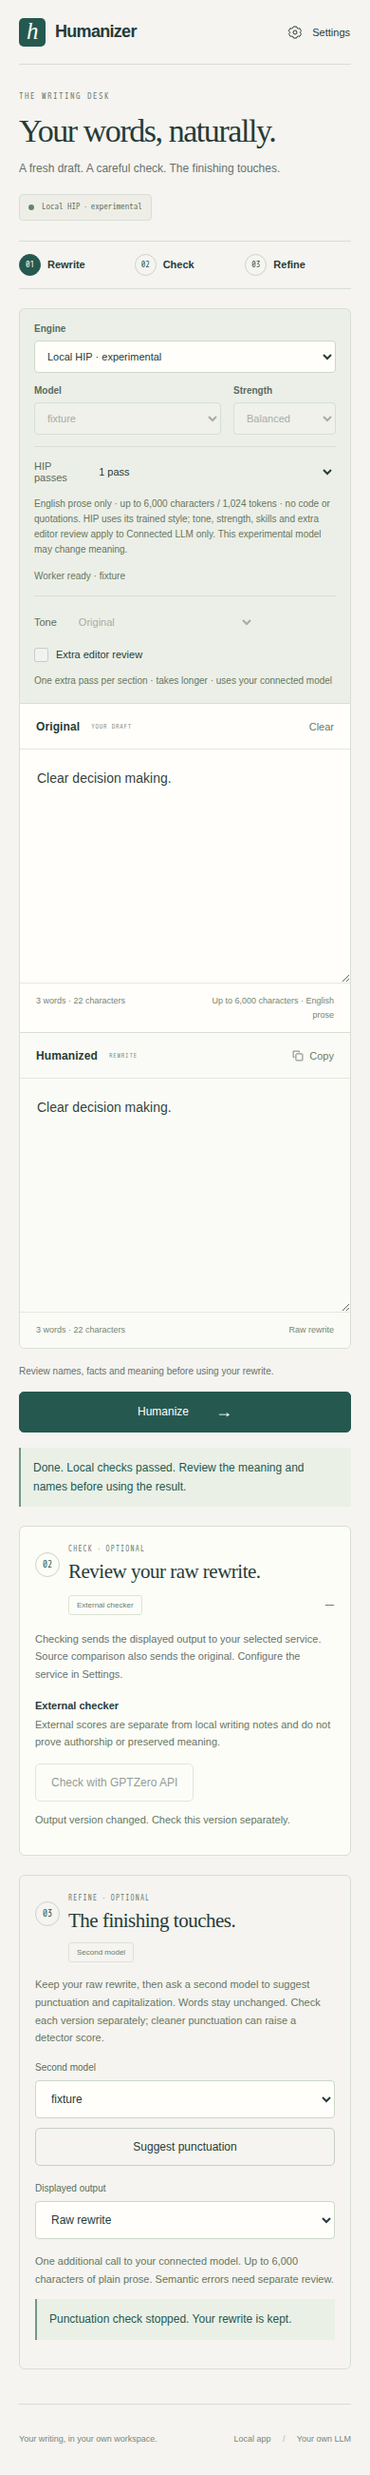
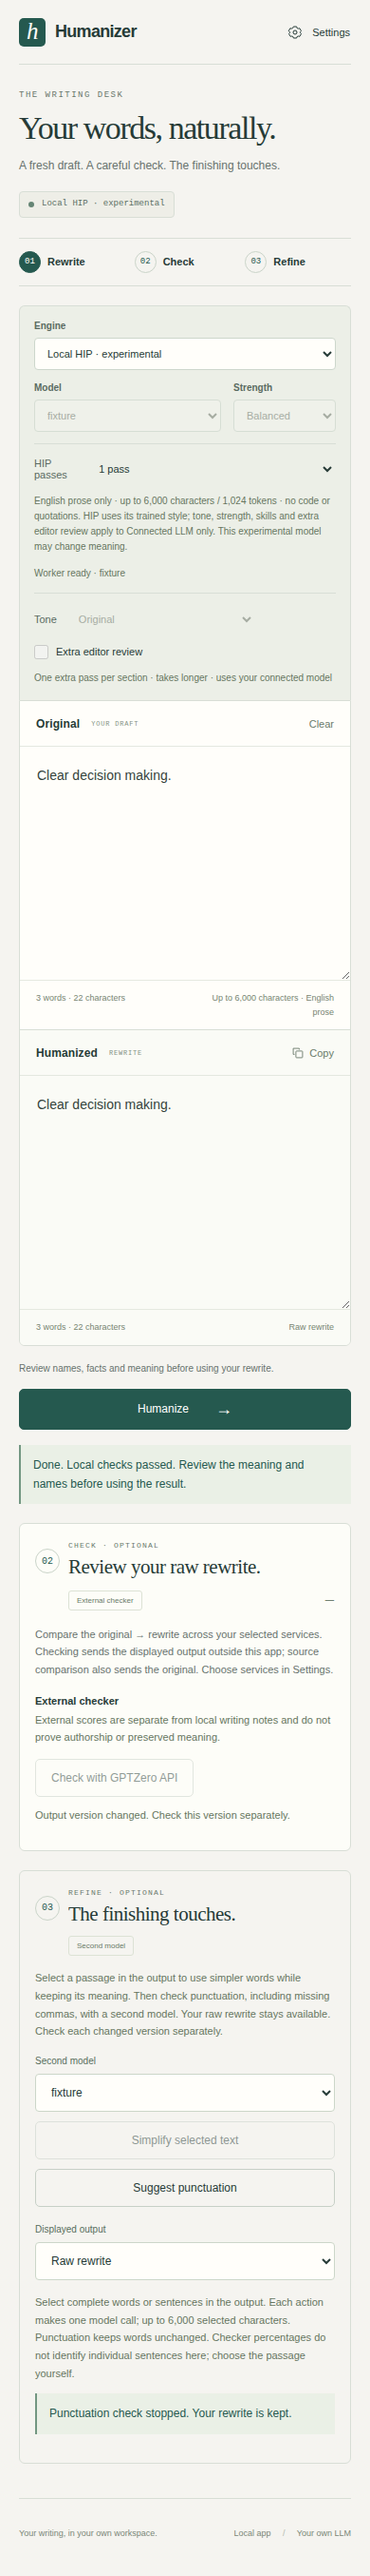
Add selected text simplification and explicit missing-comma review

diff --git a/public/app.js b/public/app.js
@@ -39,6 +39,10 @@ function updateTextState() {
   $('punctuation-panel').hidden = !verified || !versions;
   $('punctuation-button').disabled = busy || !verified || !versions || !config?.baseUrl || !$('punctuation-model').value;
   $('punctuation-model').disabled = busy;
+  $('simplify-selection').disabled = busy || !verified || !versions || !config?.baseUrl || !$('punctuation-model').value || $('output').selectionStart === $('output').selectionEnd;
+  $('simplified-option').hidden = !versions?.simplified;
+  $('punctuation-option').hidden = !versions?.punctuation;
+  $('version-control').hidden = !versions || (!versions.simplified && !versions.punctuation);
   $('output-version').disabled = busy;
 }
 function renderMain() {
@@ -164,30 +168,54 @@ for (const id of ['tone-select', 'extra-review']) $(id).addEventListener('change
 });
 $('original').addEventListener('input', () => {updateTextState();detectorUI.invalidate();});
 $('punctuation-model').addEventListener('change',updateTextState);
+$('output').addEventListener('select',updateTextState);
 function clearVersions(){versions=null;$('version-control').hidden=true;$('output-version').value='raw';message('punctuation-status');}
 $('output-version').addEventListener('change',()=>{
   if(busy||!versions)return;
-  $('output').value=$('output-version').value==='punctuation'?versions.punctuation:versions.raw;
+  $('output').value=versions[$('output-version').value] || versions.raw;
   detectorUI.invalidate('Output version changed. Check this version separately.');
-  clearWritingNotes();$('output-state').textContent=$('output-version').value==='raw'?'Raw rewrite':'Punctuation suggestion';updateTextState();
+  clearWritingNotes();$('output-state').textContent={raw:'Raw rewrite',simplified:'Simplified selection',punctuation:'Punctuation suggestion'}[$('output-version').value];updateTextState();
 });
 async function suggestPunctuation(){
   if(busy||!verified||!versions||!$('punctuation-model').value)return;
-  const snapshot=versions;setBusy(true);controller=new AbortController();
+  const snapshot=versions;
+  const baseVersion=$('output-version').value==='punctuation'?(snapshot.punctuationBaseVersion || 'raw'):$('output-version').value;
+  const baseText=snapshot[baseVersion];
+  setBusy(true);controller=new AbortController();
   message('punctuation-status','Checking punctuation with the second model…');
   try{
-    const result=await api('/api/punctuation',{text:snapshot.raw,model:$('punctuation-model').value},'POST',controller.signal);
+    const result=await api('/api/punctuation',{text:baseText,model:$('punctuation-model').value},'POST',controller.signal);
     if(versions!==snapshot)return;
-    versions.punctuation=result.text;$('version-control').hidden=!result.changed;
-    // Keep the currently displayed raw draft until the user selects the suggestion.
-    $('output-version').value='raw';$('output').value=versions.raw;
+    versions.punctuation=result.changed?result.text:null;versions.punctuationBaseVersion=baseVersion;
+    // Keep the base version displayed until the user selects the punctuation suggestion.
+    $('output-version').value=baseVersion;$('output').value=baseText;
     detectorUI.invalidate('Punctuation suggestion available. Check each displayed version separately.');
-    clearWritingNotes();$('output-state').textContent='Raw rewrite';
-    message('punctuation-status',result.changed?'Punctuation suggestion ready':'No punctuation changes suggested. Raw rewrite kept.');
+    clearWritingNotes();$('output-state').textContent=baseVersion==='simplified'?'Simplified selection':'Raw rewrite';
+    message('punctuation-status',result.changed?'Punctuation suggestion ready':'No punctuation changes suggested. Current version kept.');
   }catch(error){message('punctuation-status',controller.signal.aborted?'Punctuation check stopped. Your rewrite is kept.':friendly(error),!controller.signal.aborted);}
   finally{controller=null;setBusy(false);}
 }
 $('punctuation-button').addEventListener('click',suggestPunctuation);
+async function simplifySelectedText(){
+  if(busy || !verified || !versions || !$('punctuation-model').value)return;
+  const text=$('output').value,start=$('output').selectionStart,end=$('output').selectionEnd;
+  if(start===end){message('punctuation-status','Select a passage in the output first.');return;}
+  const snapshot=versions;setBusy(true);controller=new AbortController();
+  message('punctuation-status','Simplifying the selected passage…');
+  try{
+    const result=await api('/api/simplify-selection',{text,start,end,model:$('punctuation-model').value},'POST',controller.signal);
+    if(versions!==snapshot)return;
+    if(result.changed){
+      versions.simplified=result.text;versions.punctuation=null;versions.punctuationBaseVersion=null;
+      $('output-version').value='simplified';$('output').value=result.text;
+      detectorUI.invalidate('Selected passage changed. Check this version separately.');clearWritingNotes();$('output-state').textContent='Simplified selection';
+    }
+    message('punctuation-status',result.changed?'Selected passage simplified. Review the meaning, then check this version.':'No simpler wording suggested. Current version kept.');
+  }catch(error){message('punctuation-status',controller.signal.aborted?'Simplification stopped. Your output is kept.':friendly(error),!controller.signal.aborted);}
+  finally{controller=null;setBusy(false);}
+}
+$('simplify-selection').addEventListener('click',simplifySelectedText);
+
 $('clear-original').addEventListener('click',clearVersions);
 $('clear-original').addEventListener('click', () => { $('original').value = ''; $('output').value = ''; verified = false; clearWritingNotes(); $('output-state').textContent = 'Ready when you are'; message('rewrite-status'); updateTextState(); $('original').focus(); });
 $('clear-original').addEventListener('click',()=>detectorUI.invalidate('Text cleared.'));
@@ -222,7 +250,7 @@ async function humanize() {
       if (event.type === 'delta') $('output').value += event.text;
       if (['replace', 'done'].includes(event.type)) $('output').value = event.text;
       if (statsTimer === null) statsTimer = setTimeout(() => { statsTimer = null; updateTextState(); }, 150);
-      if (event.type === 'done') { versions={raw:event.text,punctuation:null}; showWritingNotes(event.writingNotes, event.skills); completed = true; verified = true; $('output-state').textContent = 'Local checks passed'; message('rewrite-status', `Done${event.chunks > 1 ? ` · ${event.chunks} sections` : ''}${event.reviewed ? ' · Extra editor review completed' : ''}. Local checks passed. Review the meaning and names before using the result.`); }
+      if (event.type === 'done') { versions={raw:event.text,simplified:null,punctuation:null}; showWritingNotes(event.writingNotes, event.skills); completed = true; verified = true; $('output-state').textContent = 'Local checks passed'; message('rewrite-status', `Done${event.chunks > 1 ? ` · ${event.chunks} sections` : ''}${event.reviewed ? ' · Extra editor review completed' : ''}. Local checks passed. Review the meaning and names before using the result.`); }
     };
     try {
       while (true) {

diff --git a/public/index.html b/public/index.html
@@ -82,13 +82,14 @@
         <details class="checker-stage" open><summary><span class="step-number">02</span><span class="stage-summary"><span class="eyebrow">CHECK · OPTIONAL</span><strong>Review your raw rewrite.</strong></span><span class="stage-tag">External checker</span></summary><p class="checker-notice">Compare the original → rewrite across your selected services. Checking sends the displayed output outside this app; source comparison also sends the original. Choose services in Settings.</p><div id="checker-results"></div></details>
         <section id="punctuation-panel" class="punctuation-panel" hidden aria-labelledby="punctuation-title">
           <div class="stage-heading"><span class="step-number">03</span><div><p class="eyebrow">REFINE · OPTIONAL</p><h3 id="punctuation-title">The finishing touches.</h3></div><span class="stage-tag">Second model</span></div>
-          <p class="field-note">Keep your raw rewrite, then ask a second model to suggest punctuation and capitalization. Words stay unchanged. Check each version separately; cleaner punctuation can raise a detector score.</p>
+          <p class="field-note">Select a passage in the output to use simpler words while keeping its meaning. Then check punctuation, including missing commas, with a second model. Your raw rewrite stays available. Check each changed version separately.</p>
           <div class="punctuation-controls">
             <div><label for="punctuation-model">Second model</label><select id="punctuation-model"></select></div>
+            <button id="simplify-selection" class="button" type="button" disabled>Simplify selected text</button>
             <button id="punctuation-button" class="button" type="button">Suggest punctuation</button>
-            <div id="version-control" hidden><label for="output-version">Displayed output</label><select id="output-version"><option value="raw">Raw rewrite</option><option value="punctuation">Punctuation suggestion</option></select></div>
+            <div id="version-control" hidden><label for="output-version">Displayed output</label><select id="output-version"><option value="raw">Raw rewrite</option><option id="simplified-option" value="simplified" hidden>Simplified selection</option><option id="punctuation-option" value="punctuation" hidden>Punctuation suggestion</option></select></div>
           </div>
-          <p id="punctuation-note" class="field-note">One additional call to your connected model. Up to 6,000 characters of plain prose. Semantic errors need separate review.</p>
+          <p id="punctuation-note" class="field-note">Select complete words or sentences in the output. Each action makes one model call; up to 6,000 selected characters. Punctuation keeps words unchanged. Checker percentages do not identify individual sentences here; choose the passage yourself.</p>
           <p id="punctuation-status" class="message" role="status" hidden></p>
         </section>
       </section>

diff --git a/README.md b/README.md
@@ -2,6 +2,8 @@
 
 Yerelde sunulan, kendi OpenAI-compatible LLM sunucunuzla çalışan bir metin düzenleme uygulaması. İki metin alanı, otomatik model keşfi ve üç yeniden yazım seviyesi. Amaç anlamı koruyarak daha doğal yazmak; detector skoru yazım kalitesi veya anlam doğruluğu kanıtı değildir.
 
+**1.7.0 — seçili bölümü sadeleştirme ve virgül kontrolü:** Çıktıdan kelime/cümle seçip **Simplify selected text** ile daha basit bir sürüm oluşturun. Seçilmemiş bölümler aynen kalır; ham metne geri dönebilirsiniz. **Suggest punctuation** artık görüntülenen ham veya sadeleştirilmiş sürüm üzerinde çalışır ve eksik virgülleri özellikle kontrol eder. Anlamı koruma talimatları ve deterministic bilgi kontrolleri sürer; otomatik “AI cümlesi” tespiti iddia edilmez. [Gerçek model denemeleri](docs/evaluations/2026-09-21-selection/REPORT.md).
+
 **1.6.0 — çoklu checker:** ZeroGPT ve Sapling'in herkese açık sayfaları yerel tarayıcı yardımcısıyla taranabilir. GPTZero / ZeroGPT API seçenekleri de aynı ekranda seçilebilir. Her servis için **önce → sonra**, yüzde puan farkı, zaman ve metin hash'i ayrı gösterilir; başarısız servis diğer sonuçları silmez. [Gerçek karşılaştırma ve erişim sınırları](docs/evaluations/2026-09-21-multi-checker/REPORT.md).
 
 **Genelleme sonucu:** Önceki ZeroGPT %0 çıktısına Sapling **%99,9** verdi. Dört yeni metinle yapılan karşılaştırma da genel başarı göstermedi; [tüm çıktılar, iki servis ölçümleri ve anlam incelemesi](docs/evaluations/2026-09-21-generalization/REPORT.md) korunuyor. Yeni genel prompt, yeterli kanıt olmadığı için üretime alınmadı.
@@ -120,11 +122,19 @@ Boş model listesi bir çökme sebebi değildir: LLM sunucusunda bir model yükl
 
 ## Önce ham çıktı, sonra ikinci model
 
-Yeniden yazım tamamlanınca **03 Refine → The finishing touches.** bölümü açılır. **Second model** alanında bağlı sunucudaki etkin modellerden birini seçip **Suggest punctuation** düğmesine basın. Bu aşama bir ek çağrıdır ve ham metni korur. **Displayed output** alanından `Raw rewrite` veya `Punctuation suggestion` seçilir. Yeni metin yazdırmak iki geçici sürümü de sıfırlar; sürümler diske kaydedilmez.
+Yeniden yazım tamamlanınca **03 Refine → The finishing touches.** bölümü açılır. **Second model** alanında bağlı sunucudaki etkin modellerden birini seçip **Suggest punctuation** düğmesine basın. Bu aşama bir ek çağrıdır ve ham metni korur; sadeleştirilmiş sürüm görüntüleniyorsa noktalama ona uygulanır. **Displayed output** alanından mevcut `Raw rewrite`, `Simplified selection` veya `Punctuation suggestion` seçilir. Yeni metin yazdırmak geçici sürümlerin tümünü sıfırlar; sürümler diske kaydedilmez.
 
 İkinci aşama yalnızca noktalama, tire ve büyük/küçük harf önerir; sözcük ekleme/çıkarma, yeniden yazım, sayı/ad/kısaltma değişiklikleri reddedilir. 6.000 karaktere kadar düz metin desteklenir; alıntı/kod/URL/atıf/yapılı metin ve özel korunan terimler bu aşamada reddedilir. Anlam hatalarını düzeltmez ve dilbilgisel yeniden yazım yapmaz. Qwen3.5 için resmî thinking kapatma parametresi kullanılır; diğer model ailelerine bu alan gönderilmez.
 
 İptal, kota veya model hatasında mevcut çıktı korunur. Sürüm değiştirildiğinde eski detector sonucu temizlenir. **Her sürümü ayrı kontrol edin:** gerçek denemede yalnızca iki tire ve bir büyük harf düzeltmesinden sonra gösterilen skor %52,4'ten %100'e çıktı. Bu tek çift, değişikliğin her zaman aynı etkiyi yaratacağını kanıtlamaz; düzeltme öncesi skoru düzeltilmiş metne taşımak doğru değildir. API seçenekleri kendi anahtarlarını gerektirir; anahtarsız web checker ayrı, açıkça seçilmesi gereken bir seçenektir. Gerçek tarama sonucu alınmadan skor üretilmez.
+
+### Seçili bölümü daha basit yazma
+
+Sağdaki çıktıda tam kelimeleri veya cümleleri seçin, **03 Refine → Simplify selected text** düğmesine basın. Model yalnızca seçili bölümü yeniden yazar; önündeki ve arkasındaki metin kod tarafında aynen birleştirilir. Her işlem tek model çağrısıdır, seçim en fazla 6.000 karakterdir. İsim, sayı, tarih ve korunan alıntı/kod kontrolleri uygulanır; kısmi kelime ya da kısmi korunan içerik seçimi reddedilir. Bu kontroller semantik eşdeğerlik kanıtı değildir; sonucu okuyarak değerlendirin.
+
+Sadeleştirilmiş sürüm görüntülenir; **Displayed output → Raw rewrite** ilk metne döner. Ardından **Suggest punctuation** ile bu sürümde eksik virgül/noktalama önerisi alınabilir. Noktalama modeli kelimeleri değiştiremez; ham/sade/noktalama sürümleri ayrıdır. Yeni bir sadeleştirme önceki noktalama önerisini geçersiz kılar. Metin değiştiğinde checker skorları temizlenir; yeni sürümü yeniden tarayın.
+
+Mevcut checker bağlantıları sadece toplam yüzdeyi döndürür. Bu nedenle düğme checker’ın kesin olarak işaretlediği bir cümleyi otomatik bulmaz; düzeltilecek bölümü kullanıcı seçer. Puanı düşürmek için rastgele virgül silme, yazım hatası ekleme veya anlam bozma uygulanmaz.
 
 ## Local HIP engine
 

diff --git a/docs/evaluations/2026-09-21-selection/REPORT.md b/docs/evaluations/2026-09-21-selection/REPORT.md
@@ -1,0 +1,19 @@
+# Selected simplification and missing commas
+
+2026-09-21. The user explicitly chose to preserve meaning while simplifying wording. Version1.7 adds a manual selected-span rewrite and strengthens the existing punctuation proofreader's missing-comma guidance. Neither operation is an automatic detector-feedback loop.
+
+Three explicit calls used the already-connected `gemma-4-31B-it` model. [Complete record](live-model.json). Production settings were not modified and no text was sent to a detector in this batch.
+
+| Operation | Before | After |
+| --- | --- | --- |
+| English commas | If the file opens check the date. However the result may change. | If the file opens, check the date. However, the result may change. |
+| Turkish list comma | Çantaya kalem defter ve kitap koydu. | Çantaya kalem, defter ve kitap koydu. |
+| Selected wording | The system enables employees to obtain information before making a decision | Employees can use the system to get information before they make a decision |
+
+The English/Turkish proofreader kept every word. The selected rewrite retained the information-access claim, employee subject and before-decision relationship; the surrounding `Keep this note.` and `Keep this ending.` were unchanged. This is a small functional check, not evidence of better detector percentages or guaranteed semantic fidelity. No score-reduction claim is made. The probe invokes the same provider functions as the production endpoints; HTTP routing and UI were separately tested offline.
+
+The UI preserves the original raw output. A successful selected rewrite is a separate displayed version; punctuation subsequently operates on that displayed base. The user can switch among raw, simplified and punctuation versions. Scores are invalidated after content/version changes. Existing checkers only return overall percentages, so selecting the problematic passage is manual.
+
+114 Node tests and the selected-rewrite/punctuation Chromium flows passed. Review identified and fixed two boundary bugs: protecting indented code after trimming could lose its protection; splitting a contraction at its apostrophe could create a broken word. The regressions were observed failing before fixes. Selection protection now occurs before trimming, and Unicode word segmentation validates boundaries. Existing immutable-span and fact checks also reject changed numbers, partial protected content and malformed ranges.
+
+`scripts/probe-selection.mjs` is explicit research only, three calls, no retry, no production preference mutation. Screenshot `selection-mobile-fixture.png` uses synthetic local model responses and is UI evidence only.
